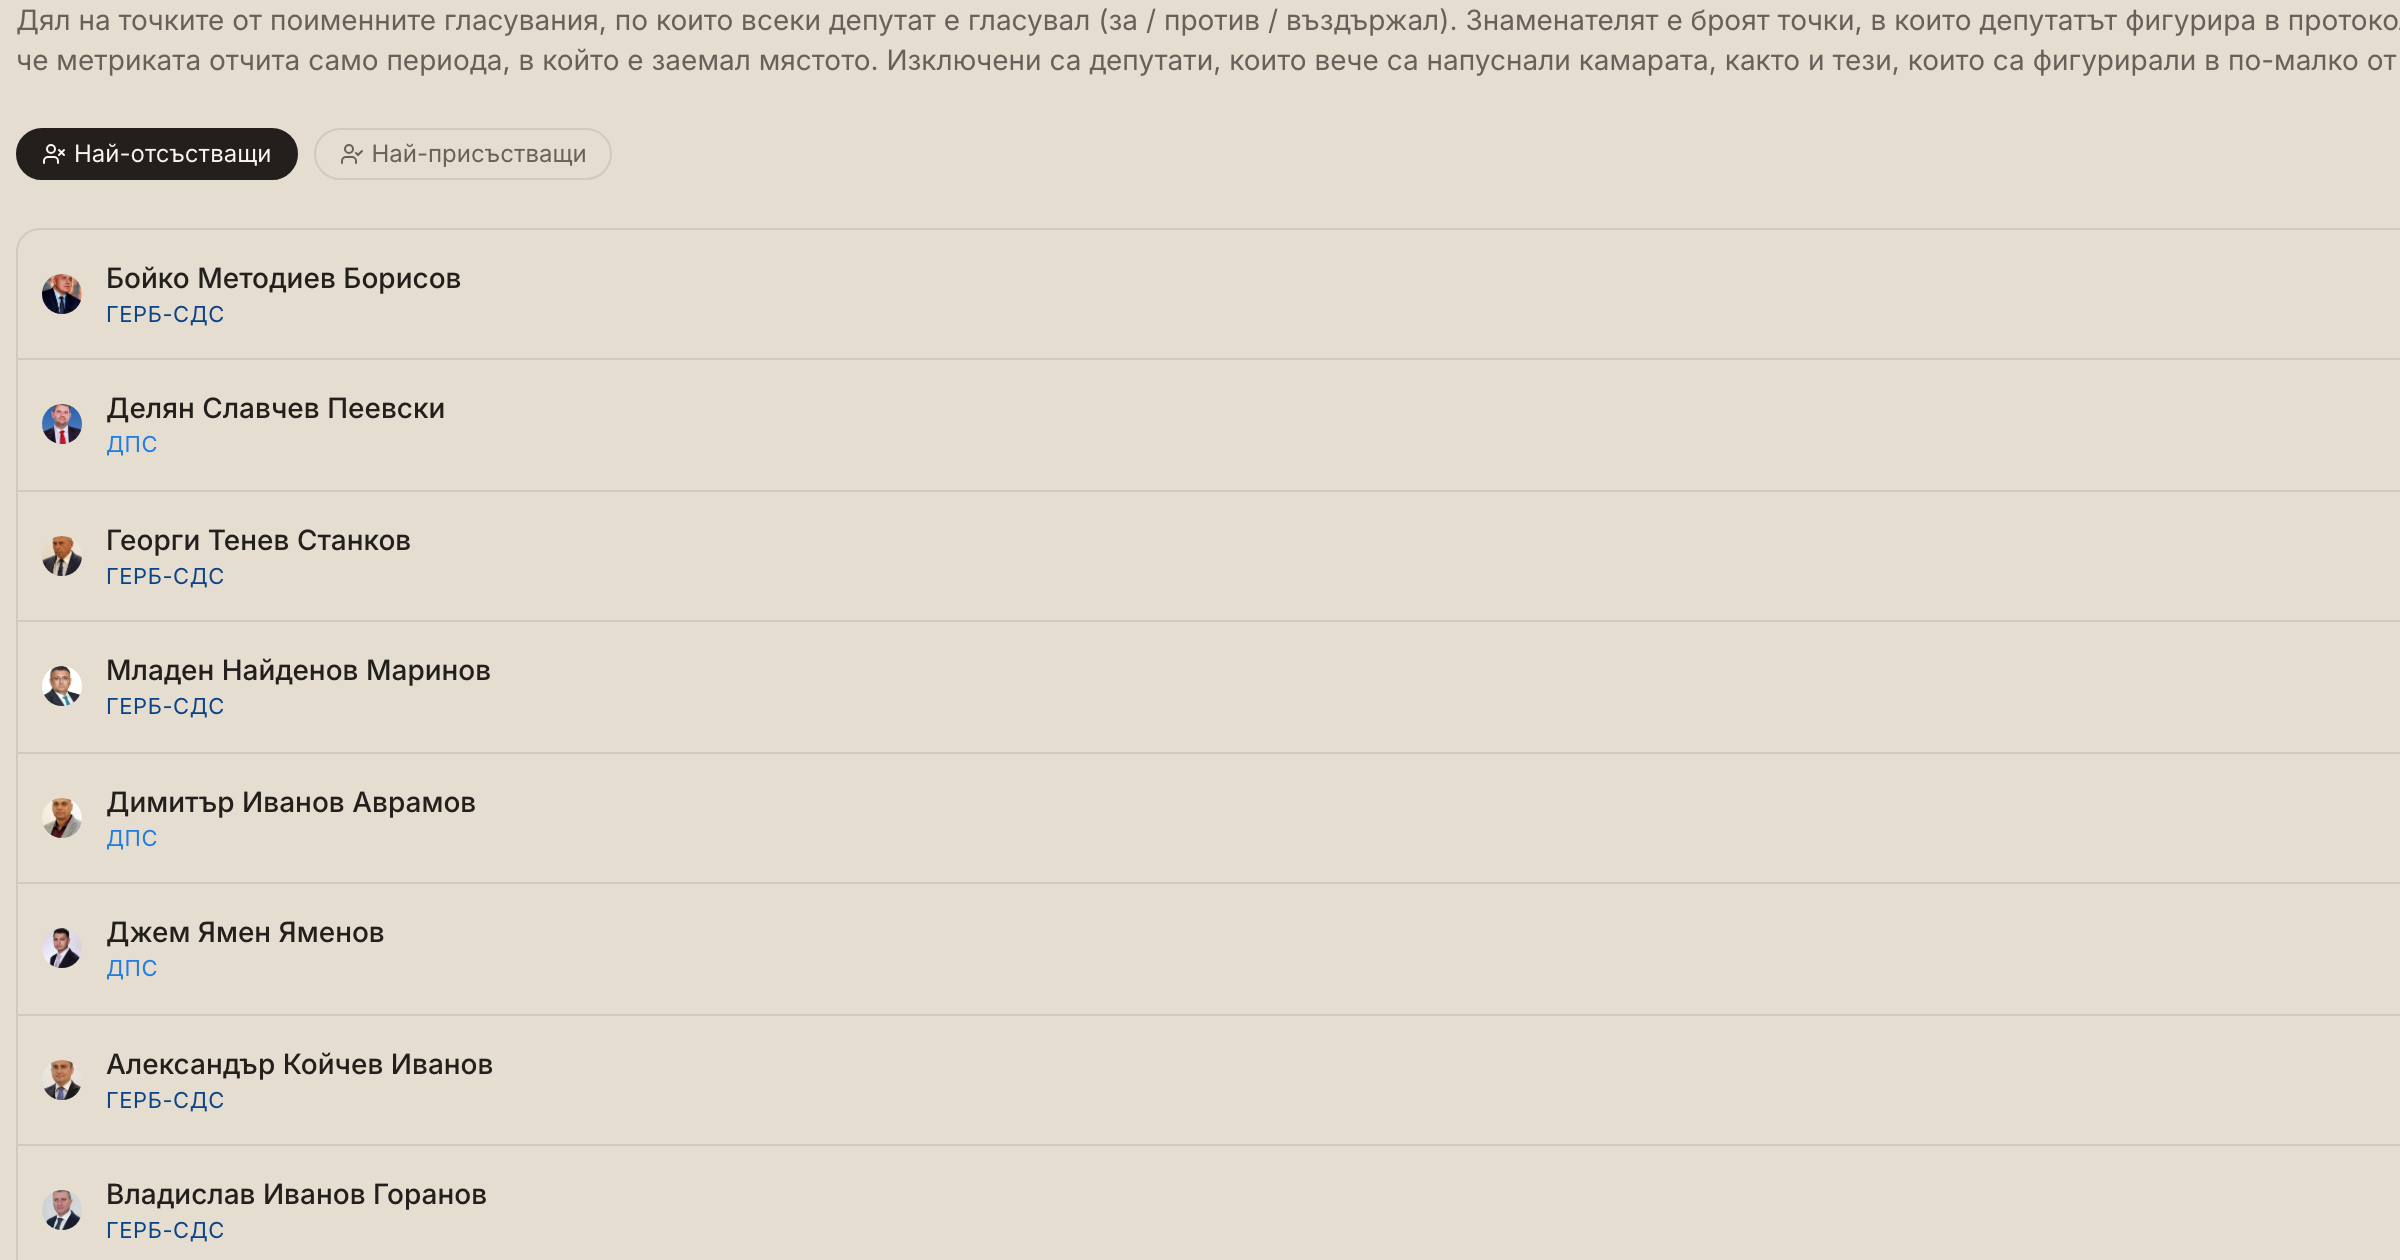
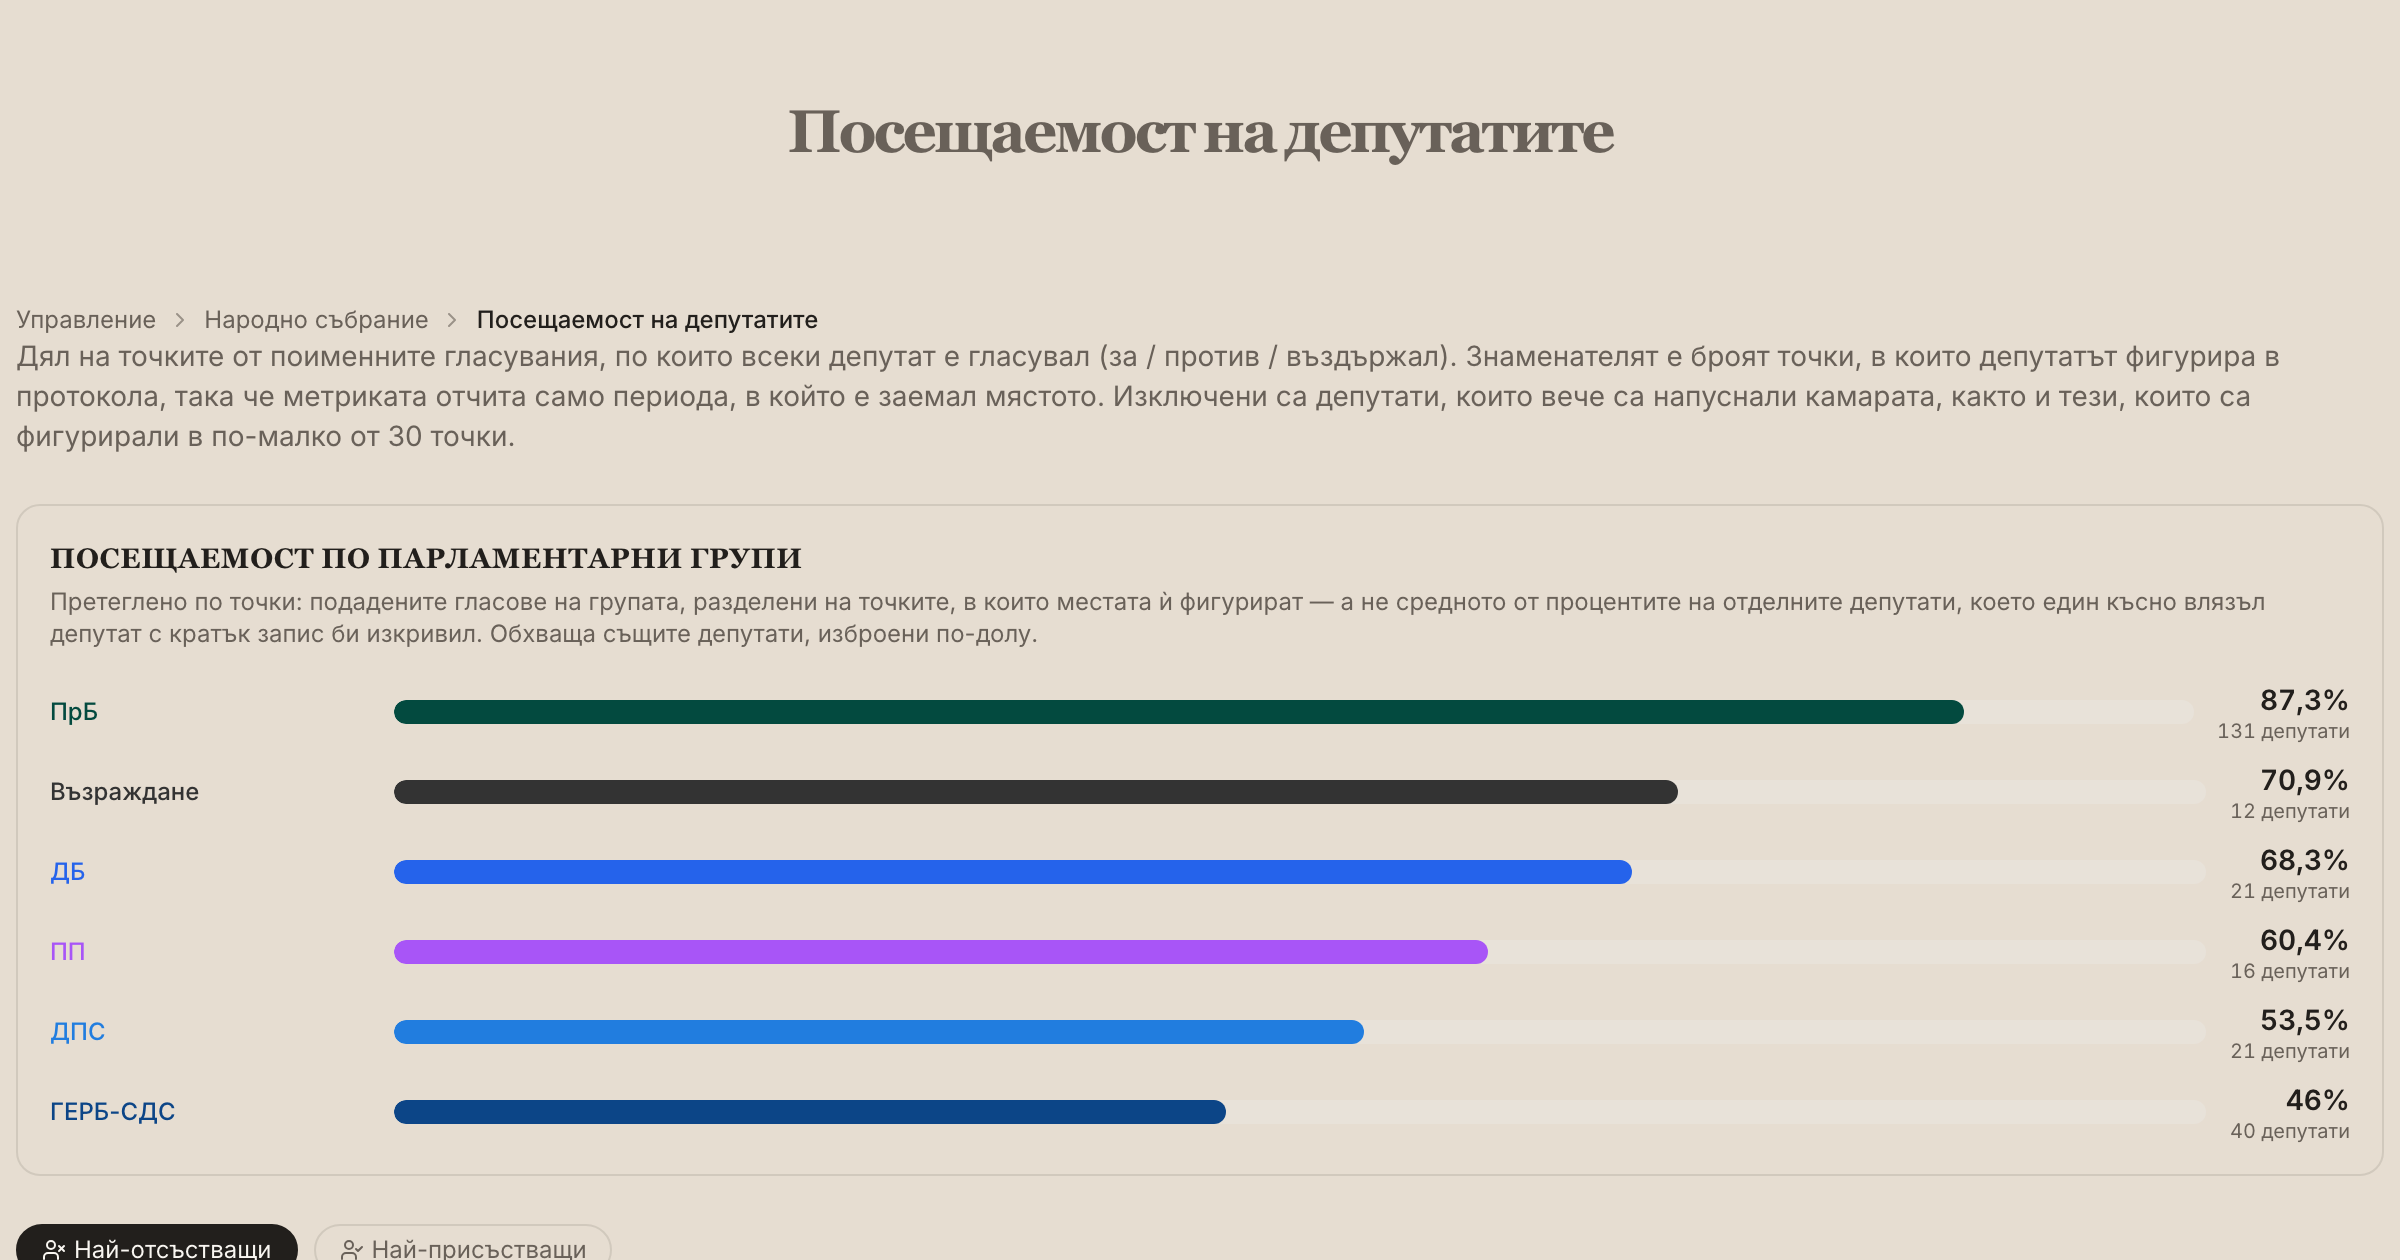
attendance: a group bar chart on top — and an og card that finally carries a number
/parliament/attendance opened on 240 names sorted worst-first, with no way to
read the chamber. The bar above the list folds the SAME eligible rows (seated,
>= 30 items) on the SAME party resolution the rows display, so a reader can add
them up to the bar.

Weighted by items, not the mean of the members' percentages: those two disagree
whenever a group's members sat for different lengths of time — one late arrival
present for 40 of 1,198 items would otherwise carry a full member's weight, and
the test pins the case where the unweighted form reads 75% against a true 52.9%.
Full 0-100% scale rather than the cohesion page's min-max stretch, because
attendance is a share judged against "always".

The og:image was the same page failing worse. It anchored on the MP list with
leftAlign, so the card was eight names with every percentage clipped off the
right edge — a share image carrying no figure at all. Anchored on h1 at the
1200px clip viewport it now reads title -> intro -> the whole chart.

diff --git a/src/screens/components/votes/AttendanceByGroup.tsx b/src/screens/components/votes/AttendanceByGroup.tsx
@@ -1,0 +1,85 @@
+import { FC } from "react";
+import { useTranslation } from "react-i18next";
+import { useParliamentGroups } from "@/data/parliament/useParliamentGroups";
+import {
+  aggregateAttendanceByGroup,
+  type AttendanceGroupInput,
+} from "./groupAttendance";
+
+type Props = {
+  // The SAME eligible rows the MP list renders, already resolved to the party
+  // label each row displays — so the bar and the members beneath it reconcile.
+  rows: AttendanceGroupInput[];
+};
+
+export const AttendanceByGroup: FC<Props> = ({ rows }) => {
+  const { t, i18n } = useTranslation();
+  const { colorForPartyShort, labelForPartyShort } = useParliamentGroups();
+  const lang = i18n.language;
+  const groups = aggregateAttendanceByGroup(rows);
+  if (groups.length === 0) return null;
+
+  const pct = new Intl.NumberFormat(lang === "bg" ? "bg-BG" : "en-GB", {
+    style: "percent",
+    maximumFractionDigits: 1,
+  });
+  return (
+    // The og:image anchor for /parliament/attendance — the card leads with this
+    // chart rather than the name list, whose percentages sat off the clip's right
+    // edge. `data-og` is also what the capture waits for: the section renders only
+    // once the attendance file is in hand, so it cannot photograph the skeleton.
+    <section
+      data-og="attendance-groups"
+      className="rounded-xl border bg-card p-4"
+    >
+      <h2 className="text-sm font-semibold uppercase tracking-wide">
+        {t("attendance_by_group_title") || "Attendance by parliamentary group"}
+      </h2>
+      <p className="text-xs text-muted-foreground mt-1">
+        {t("attendance_by_group_note") ||
+          "Weighted by items: the group's cast votes divided by the roll-call items its seats appear in — not the average of its members' own percentages, which a late arrival with a short record would distort. Covers the same MPs listed below."}
+      </p>
+
+      {/* A full 0-100% scale, deliberately: attendance is a share a reader
+          judges against "always", so a min-max stretch would exaggerate small
+          gaps between groups that all show up most of the time. */}
+      <ul className="mt-4 space-y-2.5">
+        {groups.map((g) => {
+          const color = colorForPartyShort(g.party) ?? "#94a3b8";
+          const label = labelForPartyShort(g.party) || g.party;
+          return (
+            <li
+              key={g.party}
+              className="grid grid-cols-[minmax(0,6.5rem)_1fr_auto] sm:grid-cols-[minmax(0,10rem)_1fr_auto] items-center gap-2 sm:gap-3"
+            >
+              <div
+                className="text-xs font-medium truncate"
+                style={{ color }}
+                title={label}
+              >
+                {label}
+              </div>
+              <div className="h-3 rounded-full bg-muted overflow-hidden">
+                <div
+                  className="h-full rounded-full transition-[width] duration-300"
+                  style={{
+                    width: `${Math.max(1, g.presentPct * 100)}%`,
+                    backgroundColor: color,
+                  }}
+                />
+              </div>
+              <div className="text-right tabular-nums shrink-0">
+                <div className="text-sm font-semibold leading-tight">
+                  {pct.format(g.presentPct)}
+                </div>
+                <div className="text-[10px] text-muted-foreground leading-tight">
+                  {t("attendance_group_members", { count: g.members })}
+                </div>
+              </div>
+            </li>
+          );
+        })}
+      </ul>
+    </section>
+  );
+};

diff --git a/src/screens/components/votes/groupAttendance.test.ts b/src/screens/components/votes/groupAttendance.test.ts
@@ -1,0 +1,50 @@
+import { describe, it, expect } from "vitest";
+import { aggregateAttendanceByGroup } from "./groupAttendance";
+
+describe("aggregateAttendanceByGroup", () => {
+  it("weights by items rather than averaging member percentages", () => {
+    // One member present for the whole term at 50%, one sworn in late at 100%.
+    // The unweighted mean is 75%; weighted is 550/1040 ≈ 52.9%. The group did
+    // not attend three quarters of its slots, and the figure must not say so.
+    const [g] = aggregateAttendanceByGroup([
+      { party: "ГЕРБ-СДС", presentCount: 500, totalItems: 1000 },
+      { party: "ГЕРБ-СДС", presentCount: 40, totalItems: 40 },
+    ]);
+    expect(g.presentPct).toBeCloseTo(540 / 1040, 6);
+    expect(g.presentPct).toBeLessThan(0.75);
+    expect(g.members).toBe(2);
+    expect(g.totalItems).toBe(1040);
+    expect(g.presentCount).toBe(540);
+  });
+
+  it("sorts by attendance descending", () => {
+    const rows = aggregateAttendanceByGroup([
+      { party: "A", presentCount: 40, totalItems: 100 },
+      { party: "B", presentCount: 90, totalItems: 100 },
+      { party: "C", presentCount: 70, totalItems: 100 },
+    ]);
+    expect(rows.map((r) => r.party)).toEqual(["B", "C", "A"]);
+  });
+
+  it("drops groups with no items rather than rendering them at zero", () => {
+    const rows = aggregateAttendanceByGroup([
+      { party: "A", presentCount: 0, totalItems: 0 },
+      { party: "B", presentCount: 1, totalItems: 2 },
+    ]);
+    expect(rows.map((r) => r.party)).toEqual(["B"]);
+  });
+
+  it("ignores rows with a blank party label", () => {
+    const rows = aggregateAttendanceByGroup([
+      { party: "", presentCount: 5, totalItems: 10 },
+      { party: "  ", presentCount: 5, totalItems: 10 },
+      { party: "A", presentCount: 5, totalItems: 10 },
+    ]);
+    expect(rows).toHaveLength(1);
+    expect(rows[0].party).toBe("A");
+  });
+
+  it("returns an empty list for no input", () => {
+    expect(aggregateAttendanceByGroup([])).toEqual([]);
+  });
+});

diff --git a/src/screens/components/votes/groupAttendance.ts b/src/screens/components/votes/groupAttendance.ts
@@ -1,0 +1,58 @@
+// Fold per-MP attendance into one figure per parliamentary group.
+//
+// The rate is WEIGHTED — sum(present) / sum(items), not the mean of the members'
+// own percentages. Those two disagree whenever a group's members were seated for
+// different lengths of time: a member sworn in for the last 40 items would carry
+// the same weight as one present for all 1,198 under an unweighted mean, so a
+// single late arrival with a thin record could move the group by points. Weighted
+// answers the question the page actually asks — of all the roll-call slots this
+// group's seats had, how many were voted.
+//
+// Callers must pass the SAME eligible set the MP list renders (seated, >= the
+// item floor), so the group figure and the rows beneath it reconcile.
+
+export type AttendanceGroupInput = {
+  party: string;
+  presentCount: number;
+  totalItems: number;
+};
+
+export type AttendanceGroupRow = {
+  party: string;
+  presentCount: number;
+  totalItems: number;
+  presentPct: number;
+  members: number;
+};
+
+export const aggregateAttendanceByGroup = (
+  rows: AttendanceGroupInput[],
+): AttendanceGroupRow[] => {
+  const acc = new Map<string, AttendanceGroupRow>();
+  for (const r of rows) {
+    const party = r.party?.trim();
+    if (!party) continue;
+    const cur = acc.get(party) ?? {
+      party,
+      presentCount: 0,
+      totalItems: 0,
+      presentPct: 0,
+      members: 0,
+    };
+    cur.presentCount += r.presentCount;
+    cur.totalItems += r.totalItems;
+    cur.members += 1;
+    acc.set(party, cur);
+  }
+  return [...acc.values()]
+    .map((g) => ({
+      ...g,
+      // A group whose members all carry a zero denominator cannot have a rate;
+      // 0 would render as "never votes", which is a different claim.
+      presentPct: g.totalItems > 0 ? g.presentCount / g.totalItems : 0,
+    }))
+    .filter((g) => g.totalItems > 0)
+    .sort(
+      (a, b) => b.presentPct - a.presentPct || a.party.localeCompare(b.party),
+    );
+};

diff --git a/src/screens/ParliamentAttendanceScreen.tsx b/src/screens/ParliamentAttendanceScreen.tsx
@@ -10,6 +10,7 @@ import { useCandidateUrlForVote } from "@/data/parliament/votes/useCandidateUrlF
 import { useMps } from "@/data/parliament/useMps";
 import { useParliamentGroups } from "@/data/parliament/useParliamentGroups";
 import { MpAvatar } from "@/screens/components/candidates/MpAvatar";
+import { AttendanceByGroup } from "@/screens/components/votes/AttendanceByGroup";
 import { titleCaseName } from "@/lib/utils";
 import type { AttendanceEntry } from "@/data/parliament/votes/types";
 
@@ -100,6 +101,20 @@ export const ParliamentAttendanceScreen: FC = () => {
           {t("attendance_intro") ||
             "Share of roll-call items where each MP cast a vote (yes / no / abstain). The denominator is items where the MP appears in the roll-call at all, so the metric scopes to each MP's seated window. MPs with fewer than 30 items are excluded to suppress noise from short tenures."}
         </p>
+
+        {/* The group summary reads the SAME eligible set as the list below and
+            resolves each MP's party the same way, so a reader can add the rows
+            up to the bar. It keeps its own best-first order — the toggle beneath
+            it governs the MP list, not this chart. */}
+        {!isLoading && (
+          <AttendanceByGroup
+            rows={ordered.map((e) => ({
+              party: partyOf(e.mpId, e.partyShort),
+              presentCount: e.presentCount,
+              totalItems: e.totalItems,
+            }))}
+          />
+        )}
 
         <div className="flex items-center gap-2 text-xs">
           <button

diff --git a/scripts/og/capture-screens.ts b/scripts/og/capture-screens.ts
@@ -733,13 +733,23 @@ const captures: Capture[] = [
   {
     slug: "parliament-attendance",
     routePath: "parliament/attendance",
-    // Per-MP attendance ranking (surfaced from the parliament hub). The anchor
-    // wraps the tall list from the top, so top-align (no centerOnAnchor) to keep
-    // the clip inside the viewport and lead with the heading + first rows.
-    waitFor: '[data-og="attendance"]',
-    anchor: '[data-og="attendance"]',
-    leftAlign: true,
+    // Per-MP attendance ranking (surfaced from the parliament hub). Anchored on
+    // `h1` and top-aligned, the clip reads title → intro → the by-group bar
+    // chart, which is the page's argument in one picture.
+    //
+    // It used to anchor on `[data-og="attendance"]` with leftAlign, i.e. on the
+    // MP list — a card of eight names with every percentage clipped off the
+    // right edge, so the share image carried no number at all. The bar chart is
+    // both the better visual and self-contained.
+    //
+    // `waitFor` names an `li` inside the chart: the section renders only when
+    // the attendance file has loaded and folds to at least one group, so the
+    // capture cannot photograph the skeleton.
+    waitFor: '[data-og="attendance-groups"] li',
+    anchor: "h1",
+    viewport: OG_CLIP_VIEWPORT,
     settleMs: 2500,
+    extraCss: "[data-community-banner]{display:none!important;}",
   },
 
   // ---------------------------------------------------------------------------
